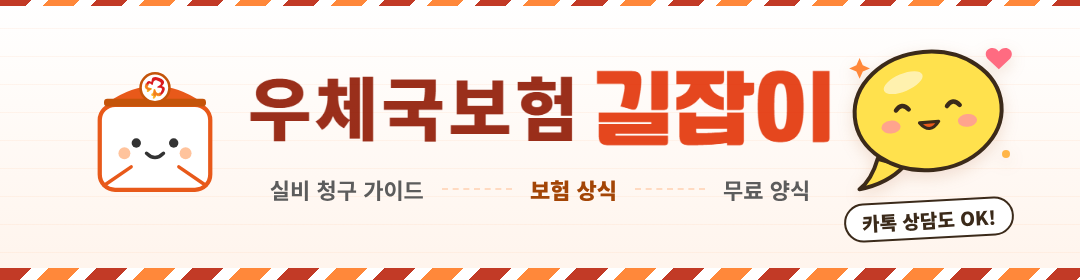
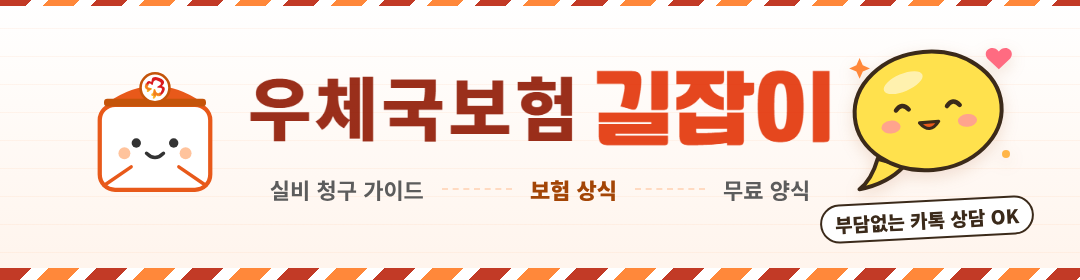
카페 타이틀: 이름표 문구 '부담없는 카톡 상담 OK'
Claude-Session: https://claude.ai/code/session_01NDkHExbD7sg1GRU5d1kqZi

Changed region(s): [[0.7639, 0.6857, 0.9778, 0.8857]]

diff --git a/cafe/assets/title.html b/cafe/assets/title.html
@@ -6,7 +6,7 @@
 .stripe.top{top:0;bottom:auto;height:6px}
 .char{position:absolute;left:70px;top:58px;width:170px;height:153px}
 .chat{position:absolute;right:62px;top:34px;width:176px;height:160px;filter:drop-shadow(0 5px 8px rgba(163,69,6,.15))}
-.chatlabel{position:absolute;right:66px;top:200px;width:170px;text-align:center;font-size:19px;font-weight:800;color:#3B2A1A;background:#fff;border:2.5px solid #3B2A1A;border-radius:20px;padding:4px 0;transform:rotate(-3deg)}
+.chatlabel{position:absolute;right:46px;top:200px;width:214px;text-align:center;font-size:19px;font-weight:800;color:#3B2A1A;background:#fff;border:2.5px solid #3B2A1A;border-radius:20px;padding:4px 0;transform:rotate(-3deg)}
 .mid{position:relative;display:flex;flex-direction:column;align-items:center;gap:26px;margin-top:-6px}
 .wm{height:78px;mix-blend-mode:multiply}
 .menu{display:flex;align-items:center;gap:18px;font-size:22px;font-weight:700;color:#5C5C5C}
@@ -27,5 +27,5 @@
 <path d="M196 22 c-7-10-22-2-14 9 l14 13 l14-13 c8-11-7-19-14-9z" fill="#FF6B81"/>
 <path d="M22 30 l4 9 l9 4 l-9 4 l-4 9 l-4-9 l-9-4 l9-4z" fill="#FF883A"/>
 <circle cx="205" cy="150" r="5" fill="#FFB547"/></svg>
-<p class="chatlabel">카톡 상담도 OK!</p>
+<p class="chatlabel">부담없는 카톡 상담 OK</p>
 <span class="stripe"></span></div></body></html>
